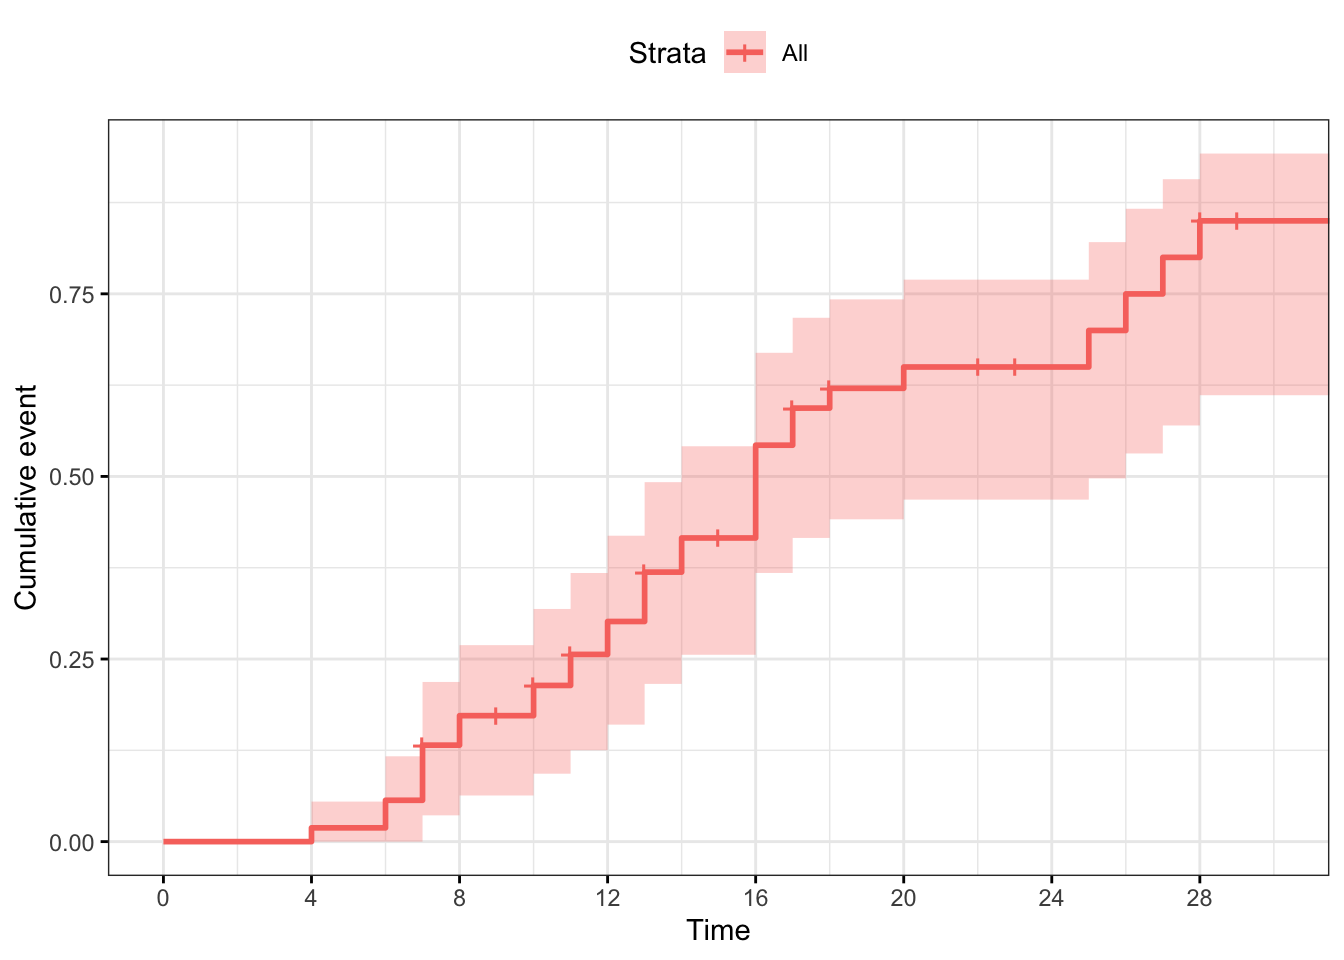
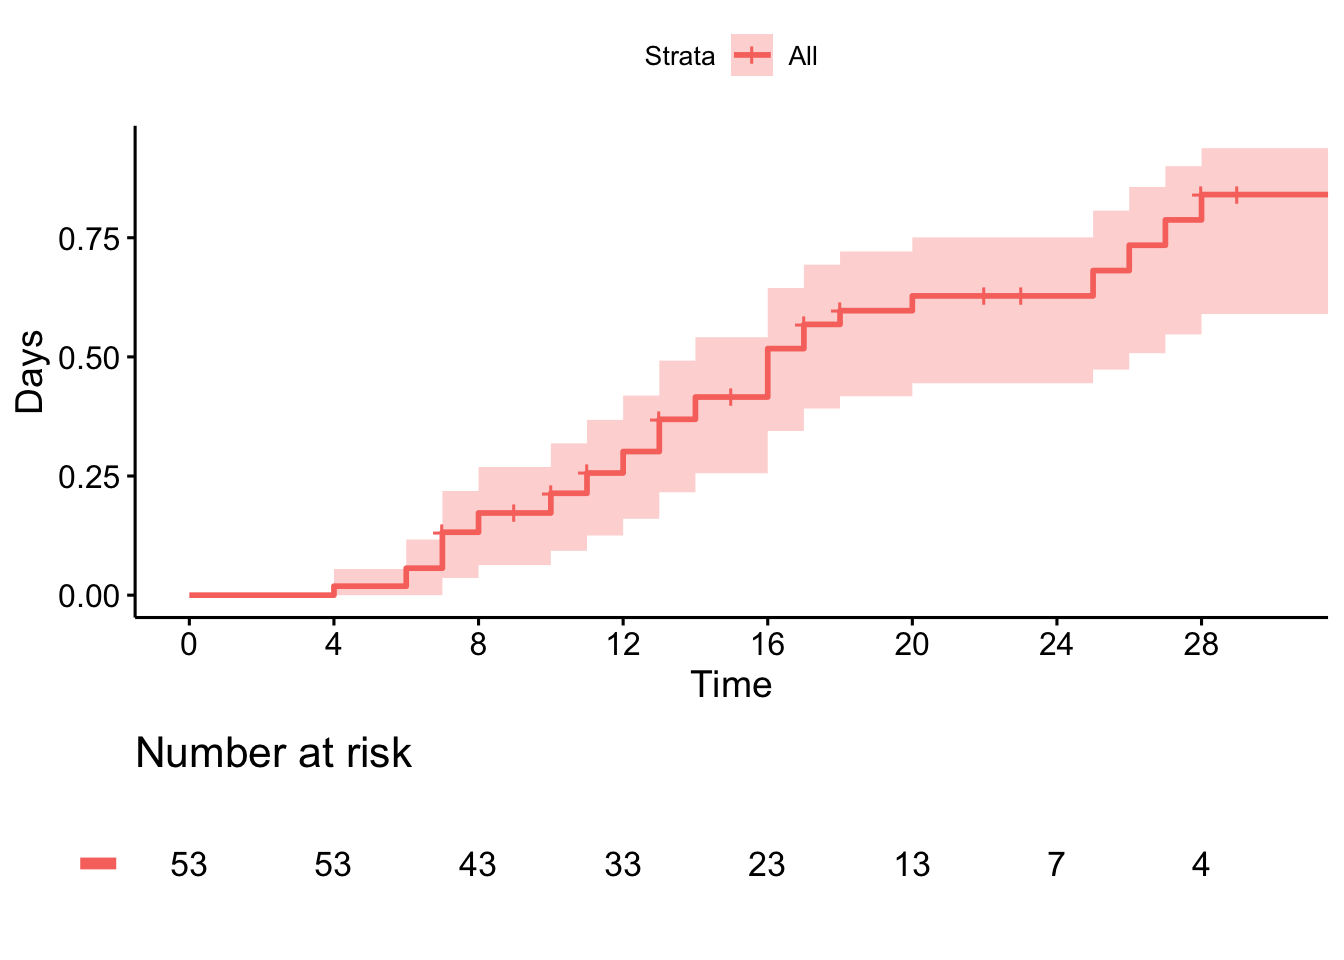
update post

diff --git a/content/post/2020-05-21-survival-model-detective-2.html b/content/post/2020-05-21-survival-model-detective-2.html
@@ -41,27 +41,38 @@ excerpt: "A paper by Grein et al. was recently published in the New England Jour
 <pre class="r"><code>library(tidyverse)
 library(survival)
 library(survminer)
+library(cowplot)
+library(cmprsk)
 d &lt;- read_csv(&quot;https://raw.githubusercontent.com/LucyMcGowan/nejm-grein-reanalysis/master/data/data-fig-2.csv&quot;)</code></pre>
 <pre class="r"><code>fig_3 &lt;- tibble(
   time = c(4, 6, 6, 7, 7, 7, 7, 7, 7, 7, 8, 8, 9,
            10, 10, 10, 11, 11, 11, 11, 12, 12, 13,
            13, 13, 13, 14, 14, 15, 15, 16, 16, 16, 
-           16, 16, 17, 17, 17, 18, 18, 20, 22, 22, 
+           16, 17, 17, 17, 17, 18, 18, 20, 22, 22, 
            23, 23, 23, 25, 26, 27, 28, 28, 29, 33),
   event = c(1, 1, 1, 1, 1, 1, 1, 0, 0, 0, 1, 1, 0,
             1, 1, 0, 1, 1, 0, 0, 1, 1, 1, 1, 1, 0, 
-            1, 1, 0, 0, 1, 1, 1, 1, 1, 1, 1, 0, 1, 
+            1, 1, 0, 0, 1, 1, 1, 1, 1, 1, 0, 0, 1, 
             0, 1, 0, 0, 0, 0, 0, 1, 1, 1, 1, 0, 0,
             0)
 )</code></pre>
-<pre class="r"><code>s &lt;- survfit(Surv(time = time, event = event) ~ 1, data = fig_3)
+<pre class="r"><code>s &lt;- survfit(
+  Surv(time = time, event = event) ~ 1, 
+  data = fig_3
+)
 
-ggsurvplot(s, fun = &quot;event&quot;, break.time.by = 4, ggtheme = theme_bw())</code></pre>
+ggsurvplot(fit = s, 
+           risk.table = TRUE, 
+           break.time.by = 4,
+           risk.table.y.text = FALSE,
+           ylab = &quot;Days&quot;,
+           tables.theme = theme_cleantable(),
+           fun = &quot;event&quot;)</code></pre>
 <p><img src="/post/2020-05-21-survival-model-detective-2_files/figure-html/unnamed-chunk-3-1.png" width="672" /></p>
 <p>I haven’t quite figured out how to map these back to Figure 2, but it seems it replicates Figure 3A pretty well. Let’s estimate the cumulative incidence at 28 days:</p>
 <pre class="r"><code>1-s$surv[s$time == 28]</code></pre>
-<pre><code>## [1] 0.8499287</code></pre>
-<p>Looks very similar to the 84% reported in the initial paper. Cool, what’s the problem? The idea main idea is to examine time to clinical improvement and assess at 28 days what the cumulative incidence of improvement is. The way a typical survival analysis (like the ones the authors did here) works is typically you follow a group of patients for a given amount of time and record the final state you see them in. If this state is your <em>event</em> of interest, they are coded as such (a <code>1</code> in the analysis above, for <em>improved</em>) otherwise they are <em>censored</em> (coded as <code>0</code> in this analysis). In the figure here we have 33 patients that <em>improved</em> and 20 that were censored. Sounds fine, what’s the problem? A key assumption is that censoring should be “non-informative”, in other words, the patient is followed for a certain amount of time, never has the event, and then is no longer followed. Our best guess is that we <em>know</em> they didn’t have the event up until the last day we saw them, so we <em>censor</em> them on that day. Maybe they’ll have the event the next day, or maybe in a year - in order for the assumptions to be appropriately met, it must be the case that patients who have been censored are just as likely to have the event as those who are still being followed in the study. Let’s pull up Figure 2 again.</p>
+<pre><code>## [1] 0.8405492</code></pre>
+<p>Looks very similar to the 84% reported in the initial paper. Cool, what’s the problem? The idea main idea is to examine time to clinical improvement and assess at 28 days what the cumulative incidence of improvement is. The way a typical survival analysis (like the ones the authors did here) works is typically you follow a group of patients for a certain amount of time. If they have an <em>event</em> (for example in the analysis above if they <em>improve</em>) you record them as such and the time the event occured, otherwise you <em>censor</em> them and record the final time they were observed. In the figure here we have 33 patients that <em>improved</em> and 20 that were censored. Sounds fine, what’s the problem? A key assumption is that censoring should be “non-informative”, in other words, the patient is followed for a certain amount of time, never has the event, and then is no longer followed. Our best guess is that we <em>know</em> they didn’t have the event up until the last day we saw them, so we <em>censor</em> them on that day. Maybe they’ll have the event the next day, or maybe in a year - in order for the assumptions to be appropriately met, it must be the case that patients who have been censored are just as likely to have the event as those who are still being followed in the study. Let’s pull up Figure 2 again.</p>
 <p><img src="/post/2020-05-21-survival-model-detective-2_files/figure-html/unnamed-chunk-5-1.png" width="672" /></p>
 <p>7 of the patients in this cohort <em>died</em>. If someone <em>dies</em> we know that they are not going to <em>improve</em> later. This is not non-informative censoring!! Luckily there is a very straightforward way to deal with this in statistics - competing risks!</p>
 </div>
@@ -72,24 +83,80 @@ ggsurvplot(s, fun = &quot;event&quot;, break.time.by = 4, ggtheme = theme_bw())<
   time = c(4, 6, 6, 7, 7, 7, 7, 7, 7, 7, 8, 8, 9,
            10, 10, 10, 11, 11, 11, 11, 12, 12, 13,
            13, 13, 13, 14, 14, 15, 15, 16, 16, 16, 
-           16, 16, 17, 17, 17, 18, 18, 20, 22, 22, 
+           16, 17, 17, 17, 17, 18, 18, 20, 22, 22, 
            23, 23, 23, 25, 26, 27, 28, 28, 29, 33),
   event = c(1, 1, 1, 1, 1, 1, 1, 2, 0, 0, 1, 1, 2,
             1, 1, 0, 1, 1, 2, 0, 1, 1, 1, 1, 1, 0, 
-            1, 1, 2, 2, 1, 1, 1, 1, 1, 1, 1, 2, 1, 
+            1, 1, 2, 2, 1, 1, 1, 1, 1, 1, 0, 2, 1, 
             2, 1, 0, 0, 0, 0, 0, 1, 1, 1, 1, 0, 0,
             0)
 )</code></pre>
 <p><span class="marginnote"> Interested in learning more about competing risk analyses in R? <a href="https://www.emilyzabor.com/tutorials/survival_analysis_in_r_tutorial.html#cumulative_incidence_for_competing_risks">Emily Zabor has an amazing tutorial on this</a> </span></p>
 <p>Let’s see how the plot looks now.</p>
-<pre class="r"><code>library(cmprsk)</code></pre>
-<pre><code>## Warning: package &#39;cmprsk&#39; was built under R version 3.5.2</code></pre>
-<pre class="r"><code>x &lt;- cuminc(fig_3_fixed$time, fig_3_fixed$event, cencode = 0)
-ggcompetingrisks(x, conf.int = TRUE,
-                 gnames = c(&quot;Improvement Improvement&quot;, &quot;Death Death&quot;))</code></pre>
+<pre class="r"><code>x &lt;- cuminc(fig_3_fixed$time,
+            fig_3_fixed$event, 
+            cencode = 0)
+
+ggcompetingrisks(x, 
+                 conf.int = TRUE,
+                 gnames = c(&quot;Improvement Improvement&quot;, &quot;Death Death&quot;),
+                 ggtheme = theme_classic())</code></pre>
 <p><img src="/post/2020-05-21-survival-model-detective-2_files/figure-html/unnamed-chunk-7-1.png" width="672" /></p>
 <p>Ok, let’s calculate the cumulative incidence now, taking death into account.</p>
 <pre class="r"><code>x$`1 1`$est[x$`1 1`$time == 28][2]</code></pre>
-<pre><code>## [1] 0.7430043</code></pre>
-<p>The estimated cumulative incidence of clinical improvement by day 28 is 74%.</p>
+<pre><code>## [1] 0.734131</code></pre>
+<p>The estimated cumulative incidence of clinical improvement by day 28 is 73%. Here’s an animation of the difference.</p>
+<p><img src="/post/2020-05-21-survival-model-detective-2_files/figure-html/unnamed-chunk-10-1.gif" /><!-- --></p>
+<p>Why does this matter? It’s crucial that the questions we answer statistically match the ones we are posing in practice. Understanding the underlying assumptions of the models is so important!</p>
+</div>
+<div id="figure-3b" class="section level2">
+<h2>Figure 3B</h2>
+<p>It turns out <em>really</em> this is a story abotu Figure 3B. Why? Because 100% of the patients who died were on invasive oxygen support at baseline, so modeling this correctly has the largest impact on the “Invasive” line on this plot. Here they were examining the same outcome, stratifying by whether patient had “invasive” or “noninvasive” baseline oxygen support.</p>
+<pre class="r"><code>fig_3_fixed &lt;- tibble(
+  time = c(4, 6, 6, 7, 7, 7, 7, 7, 7, 7, 8, 8, 9,
+           10, 10, 10, 11, 11, 11, 11, 12, 12, 13,
+           13, 13, 13, 14, 14, 15, 15, 16, 16, 16, 
+           16, 17, 17, 17, 17, 18, 18, 20, 22, 22, 
+           23, 23, 23, 25, 26, 27, 28, 28, 29, 33),
+  event = c(1, 1, 1, 1, 1, 1, 1, 2, 0, 0, 1, 1, 2,
+            1, 1, 0, 1, 1, 2, 0, 1, 1, 1, 1, 1, 0, 
+            1, 1, 2, 2, 1, 1, 1, 1, 1, 1, 0, 2, 1, 
+            2, 1, 0, 0, 0, 0, 0, 1, 1, 1, 1, 0, 0,
+            0),
+  invasive = c(0, 0, 1, 0, 0, 1, 1, 1, 1, 1, 0, 1, 1, 
+               0, 1, 1, 0, 0, 0, 1, 0, 1, 1, 0, 0, 1, 
+               1, 0, 1, 1, 1, 0, 0, 0, 1, 0, 1, 1, 1, 
+               1, 1, 1, 1, 1, 0, 1, 1, 1, 0, 1, 1, 1,
+               1)
+)</code></pre>
+<pre class="r"><code>fit &lt;- survfit(
+  Surv(time, ifelse(event == 1, 1, 0)) ~ invasive, 
+  data = fig_3_fixed
+)
+ggsurvplot(
+  fit = fit, 
+  risk.table = TRUE,
+  break.time.by = 4,
+  risk.table.y.text = FALSE,
+  xlim = c(0, 36),
+  tables.theme = theme_cleantable(),
+  conf.int = TRUE,
+  fun = &quot;event&quot;,
+  legend.labs = c(&quot;Noninvasive&quot;, &quot;Invasive&quot;))</code></pre>
+<p><img src="/post/2020-05-21-survival-model-detective-2_files/figure-html/unnamed-chunk-12-1.png" width="672" /></p>
+<p>Now what happens if we do a competing risks model? Let’s see what that looks like now</p>
+<pre class="r"><code>x &lt;- cuminc(fig_3_fixed$time, 
+            fig_3_fixed$event, 
+            group = fig_3_fixed$invasive,
+            cencode = 0)</code></pre>
+<pre class="r"><code>ggcompetingrisks(x, 
+                 conf.int = TRUE,
+                 gnames = c(&quot;Noninvasive Improvement&quot;, &quot;Invasive Improvement&quot;,
+                            &quot;Noninvasive Death&quot;, &quot;Invasive Death&quot;),
+                 ggtheme = theme_classic(),
+                 ylim = c(0, 1))</code></pre>
+<p><img src="/post/2020-05-21-survival-model-detective-2_files/figure-html/unnamed-chunk-14-1.png" width="672" /></p>
+<p>We wouldn’t expect the <em>Noninvasive</em> group to change much, because only one patient in this stratum died. Let’s focus instead on just the <em>Invasive</em> group to compare how that line changes with a proper analaysis.</p>
+<p><img src="/post/2020-05-21-survival-model-detective-2_files/figure-html/unnamed-chunk-16-1.gif" /><!-- --></p>
+<p>Basically, all this is to say that a competing risk analysis would have been more approriate here. Hopefully this code-through has been helpful!</p>
 </div>
